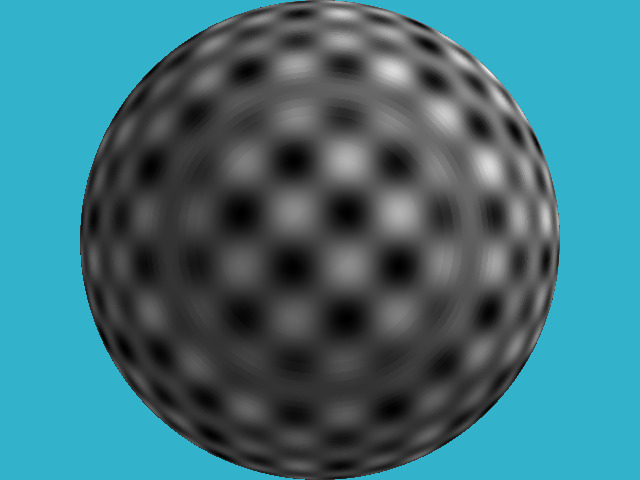
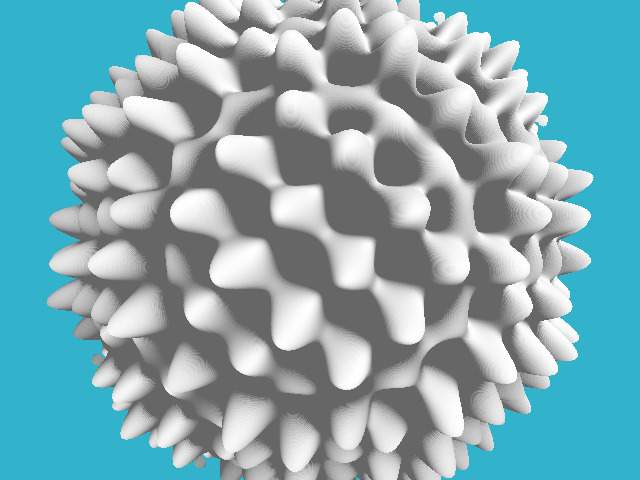
displacement mapping

diff --git a/tinykaboom.cpp b/tinykaboom.cpp
@@ -8,9 +8,12 @@
 #include "geometry.h"
 
 const float sphere_radius   = 1.5;
+const float noise_amplitude = 0.2;
 
 float signed_distance(const Vec3f &p) {
-    return p.norm() - sphere_radius;
+    Vec3f s = Vec3f(p).normalize(sphere_radius);
+    float displacement = sin(16*s.x)*sin(16*s.y)*sin(16*s.z)*noise_amplitude;
+    return p.norm() - (sphere_radius + displacement);
 }
 
 bool sphere_trace(const Vec3f &orig, const Vec3f &dir, Vec3f &pos) {
@@ -48,8 +51,7 @@ int main() {
             if (sphere_trace(Vec3f(0, 0, 3), Vec3f(dir_x, dir_y, dir_z).normalize(), hit)) { // the camera is placed to (0,0,3) and it looks along the -z axis
                 Vec3f light_dir = (Vec3f(10, 10, 10) - hit).normalize();                     // one light is placed to (10,10,10)
                 float light_intensity  = std::max(0.4f, light_dir*distance_field_normal(hit));
-                float displacement = (sin(16*hit.x)*sin(16*hit.y)*sin(16*hit.z) + 1.)/2.;
-                framebuffer[i+j*width] = Vec3f(1, 1, 1)*displacement*light_intensity;
+                framebuffer[i+j*width] = Vec3f(1, 1, 1)*light_intensity;
             } else {
                 framebuffer[i+j*width] = Vec3f(0.2, 0.7, 0.8); // background color
             }
